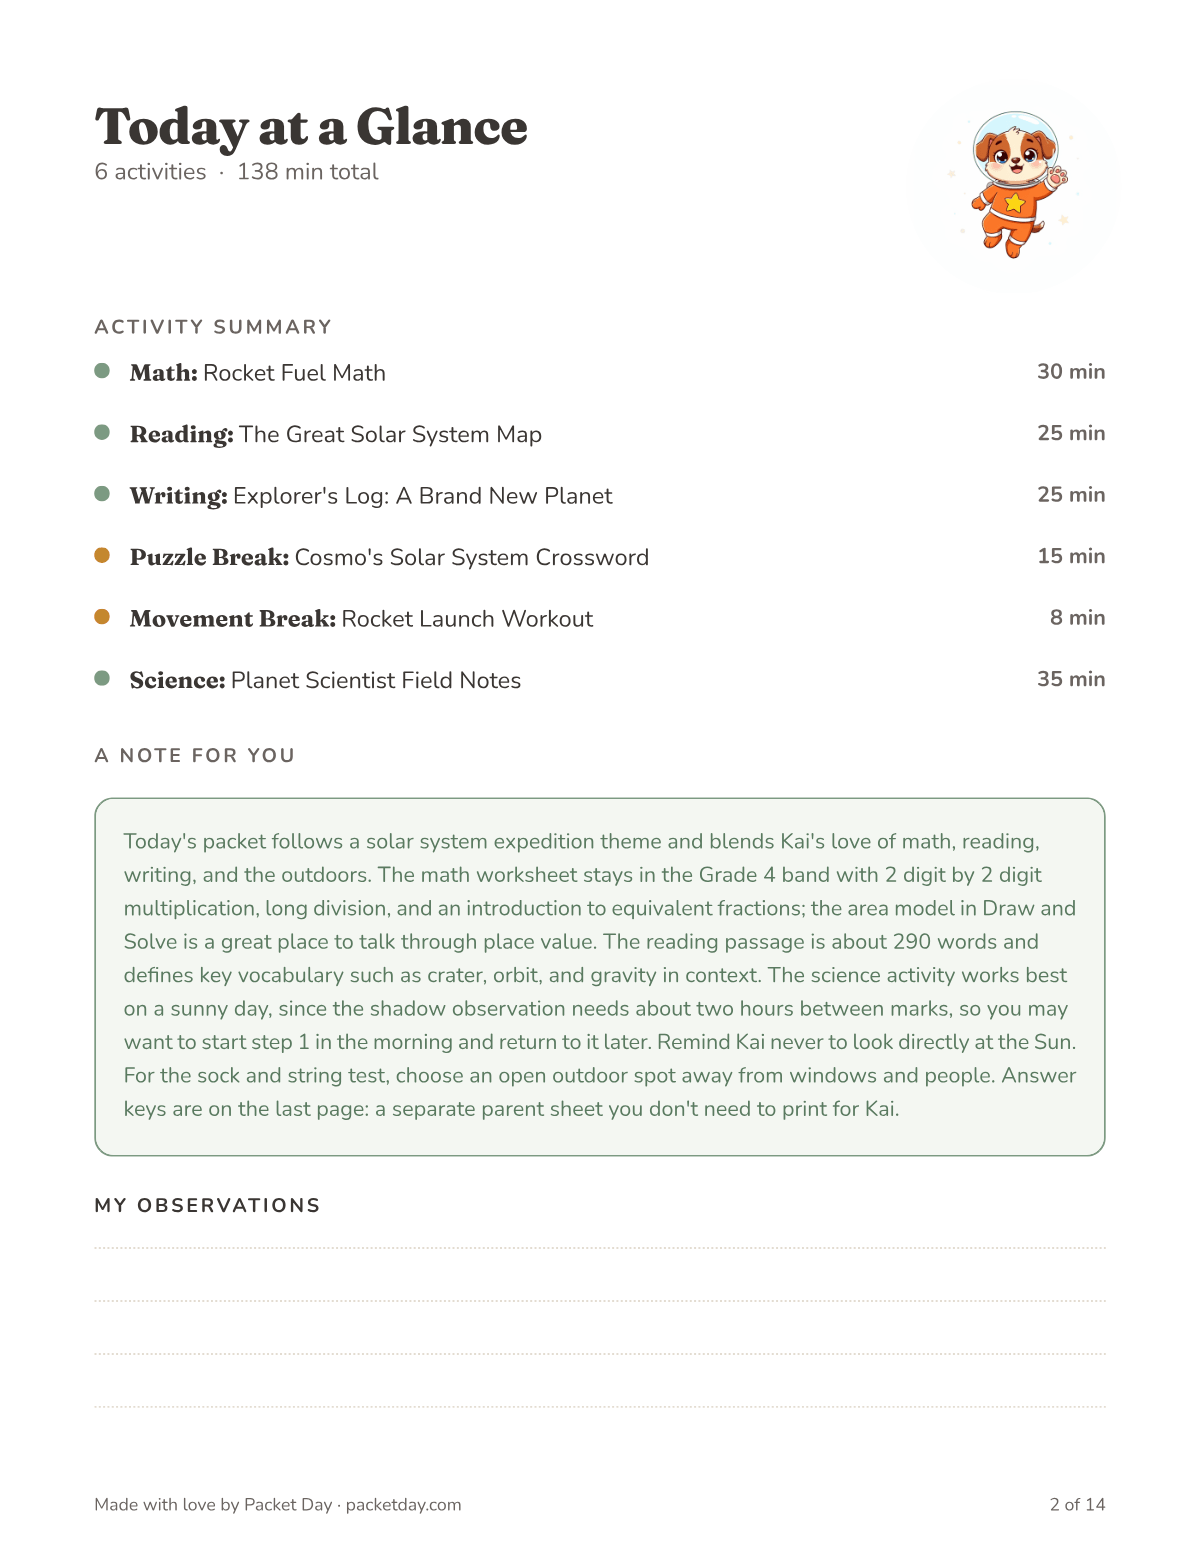
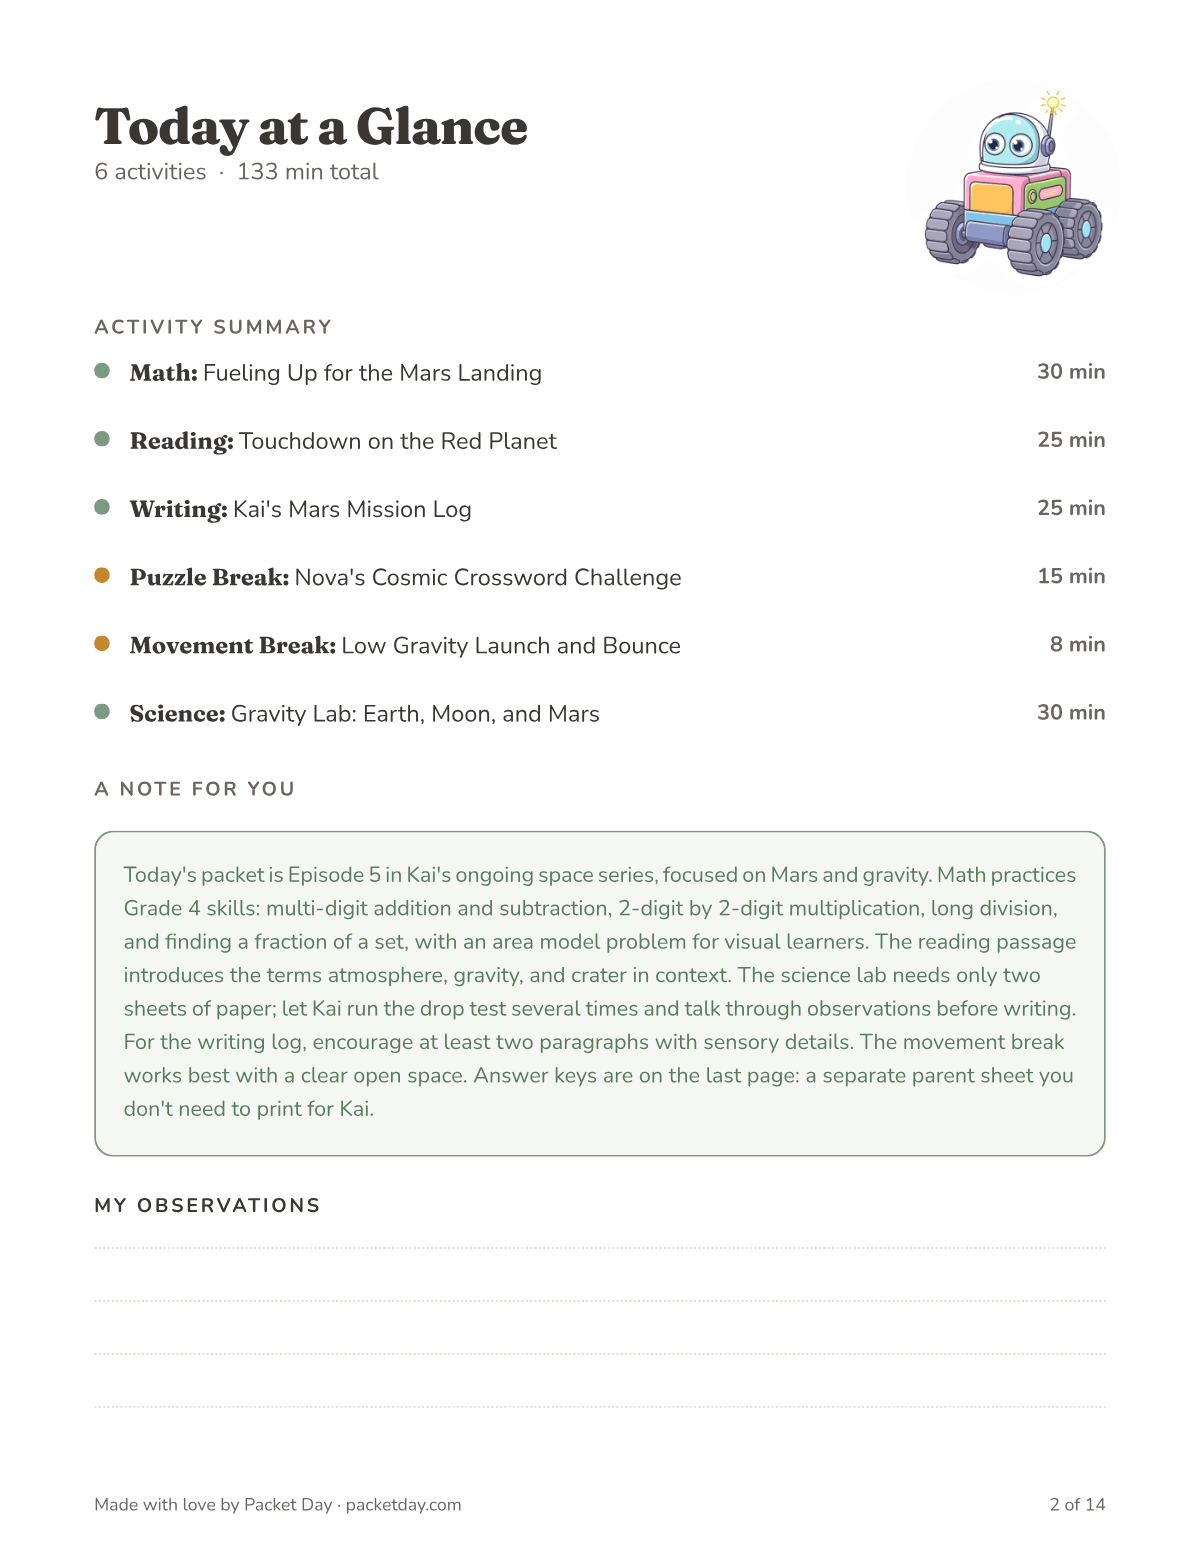
feat: Kai's Mars rover packet on /sample
Swap in Episode 5: Kai Lands on Mars with Nova the robot rover across
all 15 flipbook pages, captions, alt text, schedule, the Meet Nova
section and the grade 4 toggle pages, plus a short line under the
flipbook explaining the Episode 5 title.

diff --git a/lib/sample/content.ts b/lib/sample/content.ts
@@ -8,7 +8,7 @@ import type { LandingIconName } from "@/components/landing/art/LandingIcon";
 
 export const SAMPLE_CHILD = "Kai";
 export const SAMPLE_GRADE = 4;
-export const SAMPLE_CHARACTER = "Cosmo";
+export const SAMPLE_CHARACTER = "Nova";
 
 export const PAGE_WIDTH = 1200;
 export const PAGE_HEIGHT = 1553;
@@ -24,73 +24,73 @@ export interface SamplePage {
 const PAGES: Omit<SamplePage, "src">[] = [
   {
     label: "Cover",
-    caption: "The cover. Cosmo the puppy astronaut sends Kai off to map the whole solar system.",
-    alt: "Cover of Kai's Expedition Across the Solar System: Cosmo the puppy astronaut in an orange spacesuit, 6 activities, 138 minutes, grade 4, and a mission note from Cosmo.",
+    caption: "The cover. Nova the robot rover gives Kai today's mission: land safely on Mars.",
+    alt: "Cover of Episode 5: Kai Lands on Mars: Nova the robot rover with big round eyes and a blinking antenna, 6 activities, 133 minutes, grade 4, and a mission note from Nova.",
   },
   {
     label: "Today at a glance",
-    caption: "Today at a glance: six activities, 138 minutes, and a short note for you.",
+    caption: "Today at a glance: six activities, 133 minutes, and a short note for you.",
     alt: "Today at a Glance page listing the six activities with their minutes, a note for the parent and lines for observations.",
   },
   {
     label: "Math",
-    caption: "Rocket Fuel Math: two digit multiplication, long division and a fraction of the rocky planets.",
-    alt: "Math page, Rocket Fuel Math: six quick problems like 47 x 36 and 432 divided by 8, then four space word problems.",
+    caption: "Fueling up for the Mars landing: two digit multiplication, long division and 3/4 of the rock samples.",
+    alt: "Math page, Fueling Up for the Mars Landing: six quick problems like 48 x 36 and 728 divided by 8, then four Mars word problems.",
   },
   {
     label: "Math, draw and solve",
-    caption: "Draw and solve: an area model for 16 rows of 23 stars.",
-    alt: "Draw and solve page: a big box to draw an area model for 16 x 23, a fact about sunlight and a bonus challenge.",
+    caption: "Draw and solve: an area model for 27 rows of 13 solar panels.",
+    alt: "Draw and solve page: a big box to draw an area model for 27 x 13, a fact about a year on Mars and a bonus challenge.",
   },
   {
     label: "Reading",
-    caption: "Reading: Kai and Cosmo fly from Mercury to Neptune and map every planet on the way.",
-    alt: "Reading page, The Great Solar System Map: a story about Kai and Cosmo mapping every planet from Mercury to Neptune.",
+    caption: "Reading: Kai and Nova touch down on Mars and collect rock samples near a giant crater.",
+    alt: "Reading page, Touchdown on the Red Planet: a story about Kai landing on Mars with Nova the robot rover, bouncing in low gravity and seeing Olympus Mons.",
   },
   {
     label: "Reading questions",
-    caption: "Five questions about the story, from what makes craters to why Jupiter needed two boxes on the map.",
-    alt: "Five comprehension questions about the story with lines to write each answer, and a Venus fact.",
+    caption: "Six questions about the story, from why Mars is red to why Kai could bounce so high.",
+    alt: "Six comprehension questions about the Mars story with lines to write each answer, and a fact about Martian dust storms.",
   },
   {
     label: "Writing",
-    caption: "Writing: Kai writes an explorer's log about a brand new planet past Neptune.",
-    alt: "Writing page, Explorer's Log: A Brand New Planet: four prompts for a two paragraph log entry, with writing lines.",
+    caption: "Writing: Kai writes a mission log about a first full day on Mars.",
+    alt: "Writing page, Kai's Mars Mission Log: four prompts for a two paragraph log that starts Mission Log, Day 1 on Mars, with writing lines.",
   },
   {
     label: "Puzzle break",
-    caption: "Puzzle break: a solar system crossword, with a joke of the day.",
-    alt: "Cosmo's Solar System Crossword: a crossword grid with 11 space clues, like the biggest planet and an icy space traveler with a long glowing tail, and a joke of the day.",
+    caption: "Puzzle break: a space crossword, with a joke of the day.",
+    alt: "Nova's Cosmic Crossword Challenge: a crossword grid with 11 space clues, like the biggest planet and a robot car that explores another planet, and a joke of the day.",
   },
   {
     label: "Movement break",
-    caption: "Movement break: count down, blast off, orbit a pretend Sun and dodge the asteroid belt.",
-    alt: "Rocket Launch Workout: six moves, from a countdown jump to jogging around a chair or pillow Sun and 10 side hops each way.",
+    caption: "Movement break: blast off, moonwalk, and bounce like Kai on Mars.",
+    alt: "Low Gravity Launch and Bounce: five moves, from a countdown jump to slow moonwalk steps and 15 springy hops.",
   },
   {
     label: "Science",
-    caption: "Science: track a stick's shadow outside, then swing a sock on a string to see how gravity holds an orbit.",
-    alt: "Science page, Planet Scientist Field Notes: mark a stick's shadow twice, explain why it moved, then swing a sock on a string and let go.",
+    caption: "Science: drop a flat sheet and a crumpled ball, then work out how high you could jump on Mars.",
+    alt: "Science page, Gravity Lab: Earth, Moon, and Mars: a paper drop test, a hammer and feather prediction for the Moon and a Mars jumping question.",
   },
   {
     label: "More science",
-    caption: "More science: what if Earth moved to where Venus is, and how the rocky and giant planets differ.",
-    alt: "Second science page with two thinking questions, a Neptune fact and a bonus challenge.",
+    caption: "More science: how the Sun's gravity keeps planets in orbit, and walking on Jupiter versus Mars.",
+    alt: "Second science page with two thinking questions, a fact about the Sun's mass and a bonus challenge.",
   },
   {
     label: "Coloring page",
-    caption: "Coloring page: Kai and Cosmo float past a ringed planet.",
-    alt: "Coloring page, Kai and Cosmo Float Past the Ringed Planet: a kid and a puppy in spacesuits floating near a rocket, a telescope, a ringed planet, a crescent moon and a comet.",
+    caption: "Coloring page: Kai and Nova explore the red rocks of Mars.",
+    alt: "Coloring page, Kai and Nova Explore the Red Rocks of Mars: a kid in a spacesuit next to a rocket, a rover with a robot arm, a crater, a volcano, two small moons and a pile of rock samples.",
   },
   {
     label: "Daily reflection",
-    caption: "Daily reflection: Cosmo says expedition complete, and Kai answers one last question.",
-    alt: "Daily Reflection page: a note from Cosmo, one question about the day and lines to answer it.",
+    caption: "Daily reflection: Nova says Episode 5 is complete, and Kai answers one last question.",
+    alt: "Daily Reflection page: a note from Nova, one question about the day and lines to answer it.",
   },
   {
     label: "Certificate",
     caption: "The certificate, with a spot for your signature and Kai's.",
-    alt: "Certificate of completion for Kai, with signature lines and the words Cosmo is proud of you, Kai.",
+    alt: "Certificate of completion for Kai, with signature lines and the words Nova is proud of you, Kai.",
   },
   {
     label: "Parent answer key",
@@ -115,13 +115,13 @@ export interface DayStep {
 
 /** From Kai's Today at a Glance page, then the pages that close the day. */
 export const DAY_STEPS: DayStep[] = [
-  { icon: "math", kind: "Math", title: "Rocket Fuel Math", minutes: 30 },
-  { icon: "reading", kind: "Reading", title: "The Great Solar System Map", minutes: 25 },
-  { icon: "artPe", kind: "Writing", title: "Explorer's Log: A Brand New Planet", minutes: 25 },
-  { icon: "limitless", kind: "Puzzle break", title: "Cosmo's Solar System Crossword", minutes: 15 },
-  { icon: "peBreaks", kind: "Movement break", title: "Rocket Launch Workout", minutes: 8 },
-  { icon: "science", kind: "Science", title: "Planet Scientist Field Notes", minutes: 35 },
-  { icon: "original", kind: "Coloring page", title: "Kai and Cosmo Float Past the Ringed Planet", note: "Whenever they want" },
+  { icon: "math", kind: "Math", title: "Fueling Up for the Mars Landing", minutes: 30 },
+  { icon: "reading", kind: "Reading", title: "Touchdown on the Red Planet", minutes: 25 },
+  { icon: "artPe", kind: "Writing", title: "Kai's Mars Mission Log", minutes: 25 },
+  { icon: "limitless", kind: "Puzzle break", title: "Nova's Cosmic Crossword Challenge", minutes: 15 },
+  { icon: "peBreaks", kind: "Movement break", title: "Low Gravity Launch and Bounce", minutes: 8 },
+  { icon: "science", kind: "Science", title: "Gravity Lab: Earth, Moon, and Mars", minutes: 30 },
+  { icon: "original", kind: "Coloring page", title: "Kai and Nova Explore the Red Rocks of Mars", note: "Whenever they want" },
   { icon: "gradeAligned", kind: "Certificate", title: "Signed by you and Kai", note: "At the end" },
   { icon: "answerKeys", kind: "Answer key", title: "For you, not for Kai", note: "On your phone" },
 ];
@@ -158,19 +158,19 @@ export const GRADE_SAMPLES: GradeSample[] = [
   {
     grade: 4,
     childName: "Kai",
-    character: "Cosmo the puppy",
-    caption: "Two digit multiplication, a map of the planets and a crossword.",
+    character: "Nova the robot rover",
+    caption: "Two digit multiplication, a Mars landing and a crossword.",
     math: {
       src: "/sample/toggle/grade-4-math.png",
-      alt: "Grade 4 math page, Rocket Fuel Math: problems like 47 x 36 and 432 divided by 8, and four space word problems.",
+      alt: "Grade 4 math page, Fueling Up for the Mars Landing: problems like 48 x 36 and 728 divided by 8, and four Mars word problems.",
     },
     reading: {
       src: "/sample/toggle/grade-4-reading.png",
-      alt: "Grade 4 reading page, The Great Solar System Map: Kai and Cosmo the puppy map every planet from Mercury to Neptune.",
+      alt: "Grade 4 reading page, Touchdown on the Red Planet: Kai lands on Mars with Nova the robot rover and collects rock samples.",
     },
     puzzle: {
       src: "/sample/toggle/grade-4-puzzle.png",
-      alt: "Grade 4 puzzle page, Cosmo's Solar System Crossword: a crossword with 11 space clues and a joke of the day.",
+      alt: "Grade 4 puzzle page, Nova's Cosmic Crossword Challenge: a crossword with 11 space clues and a joke of the day.",
     },
   },
   {

diff --git a/app/sample/page.tsx b/app/sample/page.tsx
@@ -36,7 +36,7 @@ const OG_IMAGE = {
   url: `${SITE_URL}/og/sample`,
   width: 1200,
   height: 630,
-  alt: "The cover of Kai's Expedition Across the Solar System, a real sample packet",
+  alt: "The cover of Episode 5: Kai Lands on Mars, a real sample packet",
 };
 
 export const metadata: Metadata = {
@@ -147,6 +147,10 @@ export default function SamplePage() {
               Swipe, tap the arrows or use your arrow keys. This is exactly what {SAMPLE_CHILD}&apos;s packet looks
               like, down to the last page, which is just for you.
             </p>
+            <p className="mx-auto -mt-6 mb-10 max-w-2xl text-center text-sm text-dark/60 leading-relaxed">
+              This was Kai&apos;s fifth packet, which is why it says Episode 5. Packet Day keeps count, so each
+              kid&apos;s packets start to feel like a little series of their own.
+            </p>
             <SampleFlipbook pages={SAMPLE_PAGES} width={PAGE_WIDTH} height={PAGE_HEIGHT} />
           </div>
         </section>
@@ -181,14 +185,14 @@ export default function SamplePage() {
           </div>
         </section>
 
-        {/* Meet Cosmo */}
+        {/* Meet Nova */}
         <section className="px-6 py-20 bg-cream-deep">
           <div className="max-w-5xl mx-auto grid gap-8 md:grid-cols-[23.5rem_1fr] md:gap-12 md:items-center">
-            {/* Cosmo on their own, from the packet's cover art. Above the heading on mobile, left of it on desktop. */}
+            {/* Nova on their own, from the packet's cover art. Above the heading on mobile, left of it on desktop. */}
             <div className="mx-auto w-[17rem] md:w-full overflow-hidden rounded-3xl border border-border bg-white p-3 shadow-sm">
               <Image
-                src="/sample/cosmo.png"
-                alt="Cosmo the puppy astronaut in an orange spacesuit with a star patch, floating and waving one paw."
+                src="/sample/nova-rover.png"
+                alt="Nova the robot rover, with big round eyes, a tiny astronaut helmet and a blinking antenna, rolling on chunky wheels."
                 width={742}
                 height={742}
                 sizes="(min-width: 768px) 352px, 248px"
@@ -197,13 +201,13 @@ export default function SamplePage() {
               />
             </div>
             <div>
-              <SectionHeading>Meet Cosmo</SectionHeading>
+              <SectionHeading>Meet Nova</SectionHeading>
               <p className="mb-5 text-dark/70 leading-relaxed">
                 {/* Plain text on purpose: built from constants, this paragraph came out of
                     the build with words missing (a string folding bug), so it names Kai directly. */}
-                Cosmo is a puppy astronaut in an orange spacesuit with a star patch. On the cover Cosmo sends Kai off
-                to map the solar system from the Sun all the way out to Neptune. In the reading they fly past every
-                planet while Kai draws the map, and the certificate ends with &ldquo;Cosmo is proud of you, Kai.&rdquo;
+                Nova is a little robot rover with big round eyes and a blinking antenna. On the cover Nova gives Kai
+                the mission: land safely on Mars and collect rock samples. In the reading Nova scoops up rocks while
+                Kai bounces in the low gravity, and the certificate ends with &ldquo;Nova is proud of you, Kai.&rdquo;
               </p>
               <p className="font-semibold text-dark">Every packet invents its own character.</p>
             </div>
